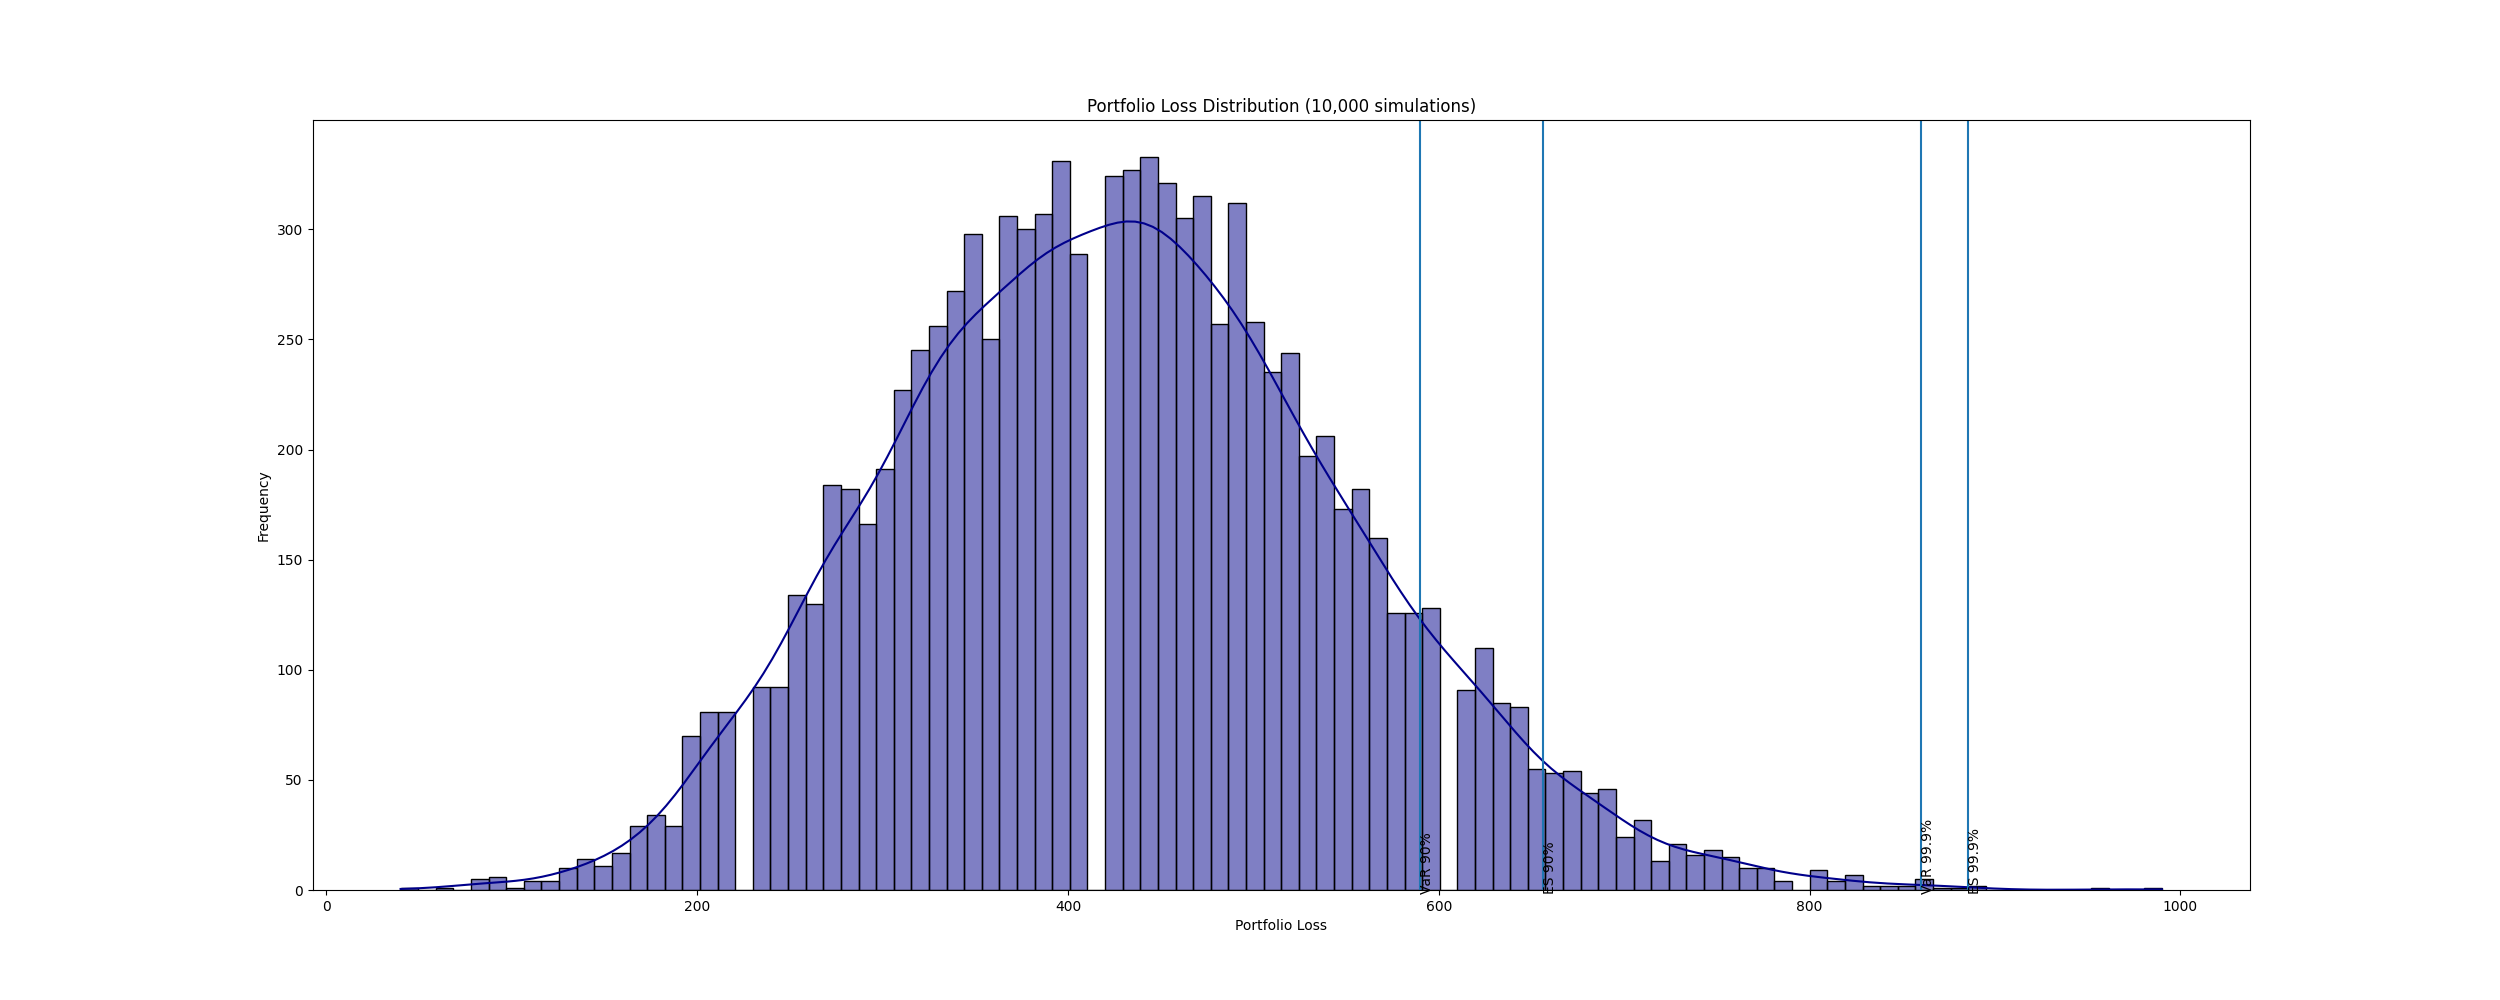
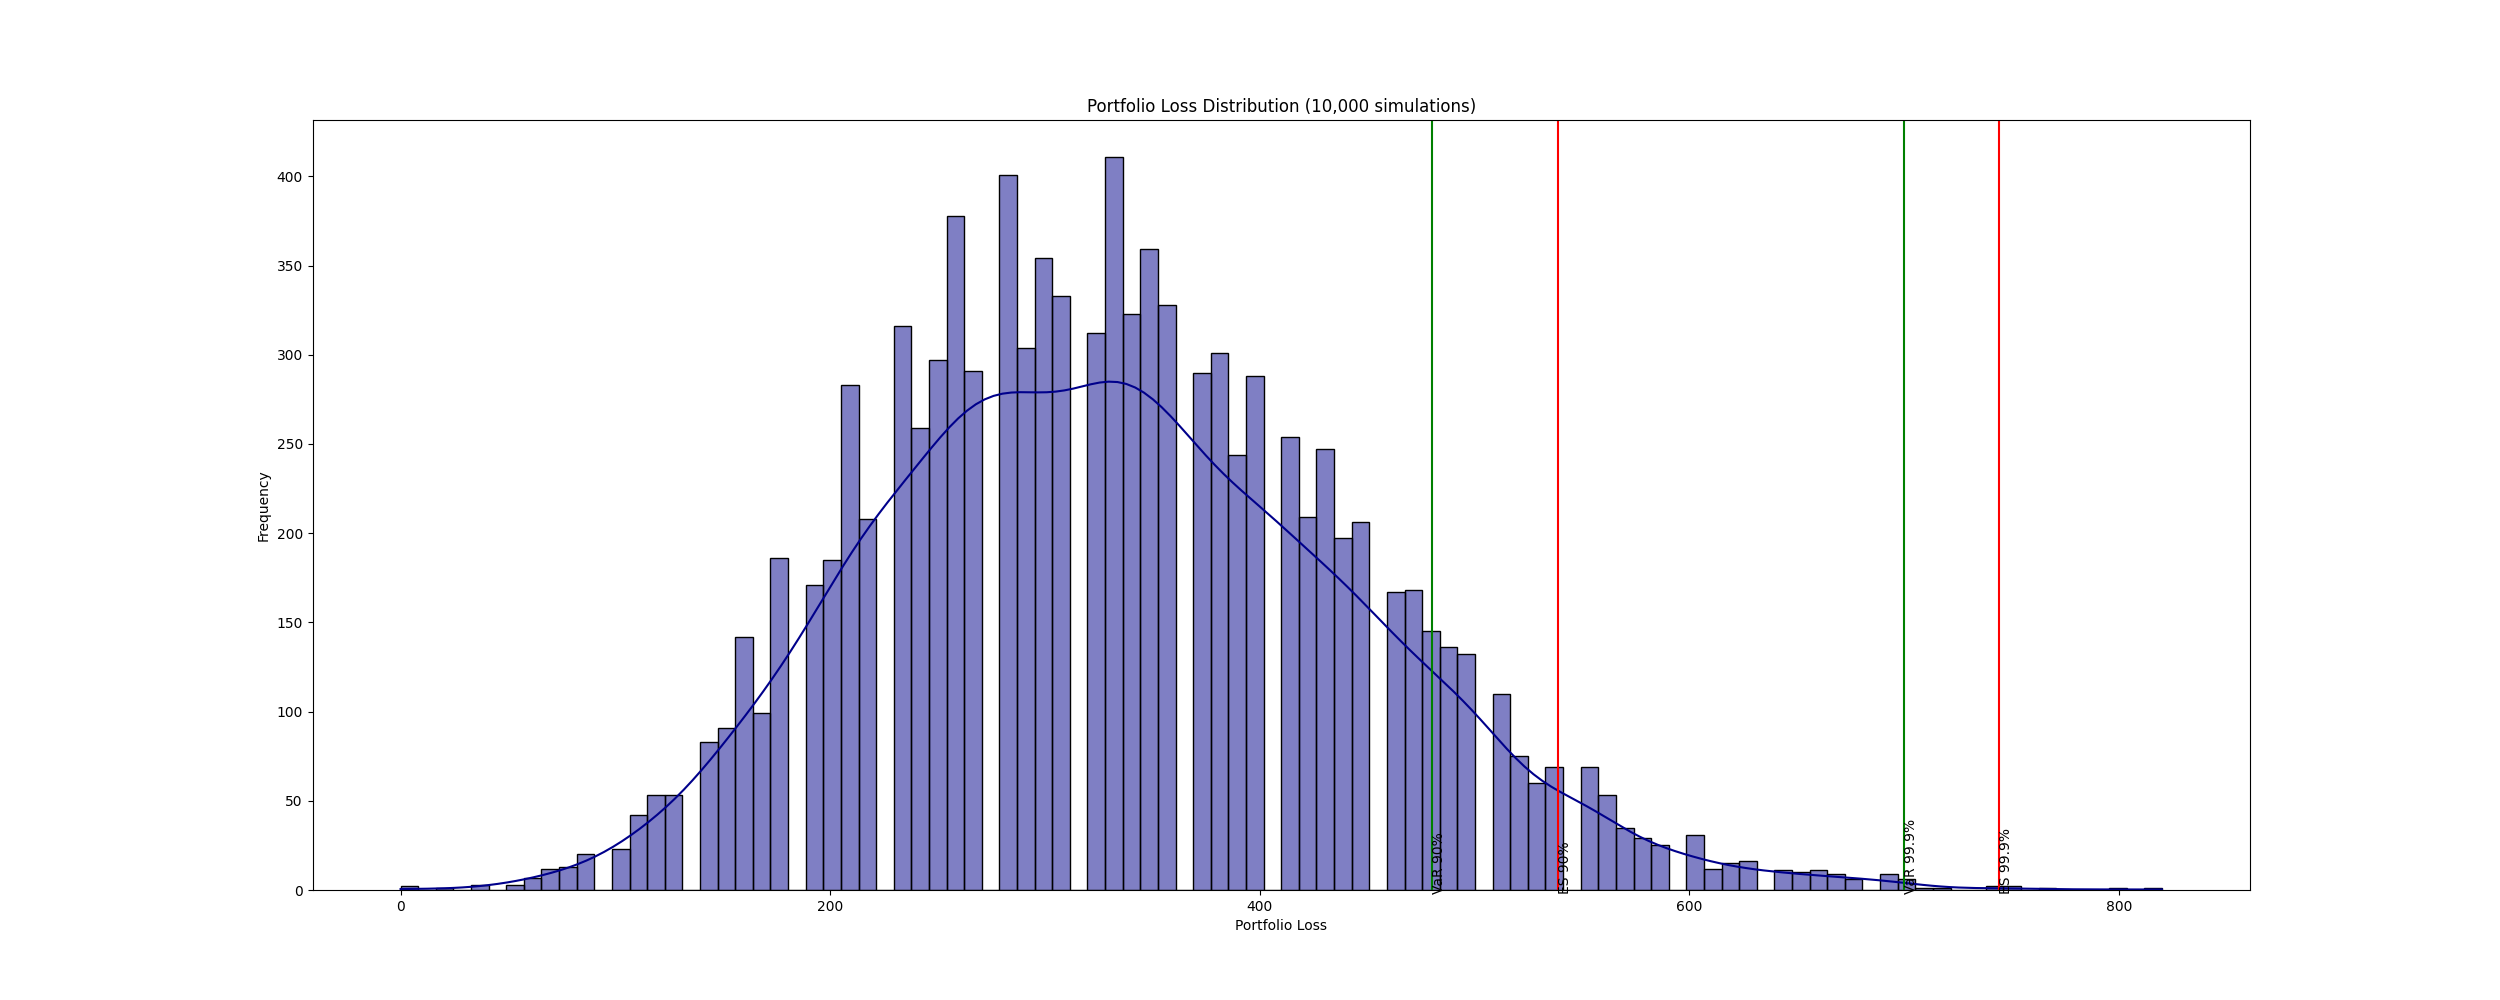
Update 10,000 simulations

Changed region(s): [[0.156, 0.155, 0.8112, 0.899], [0.8424, 0.899, 0.8736, 0.93]]

diff --git a/code/single_factor_model.py b/code/single_factor_model.py
@@ -24,7 +24,7 @@ df = pd.read_csv('export/factor_sensitivities.csv', index_col=0)
 # Monte Carlo simulation
 PORTFOLIO_LOSS = list()
 Z = normal(loc=0.0, scale=1.0)
-simulations = 50_000
+simulations = 10_000
 
 for i in range(simulations):
 
@@ -91,7 +91,7 @@ plt.axvline(ES_999, color='red')
 plt.text(ES_999, -0.4, 'ES 99.9%', rotation=90)
 plt.xlabel('Portfolio Loss')
 plt.ylabel('Frequency')
-plt.title('Portfolio Loss Distribution (50,000 simulations)')
+plt.title('Portfolio Loss Distribution (10,000 simulations)')
 plt.savefig(os.path.join(HOME, 'export',
-            'portfolio_loss_distribution_50000.png'))
+            'portfolio_loss_distribution_10000.png'))
 plt.show()
